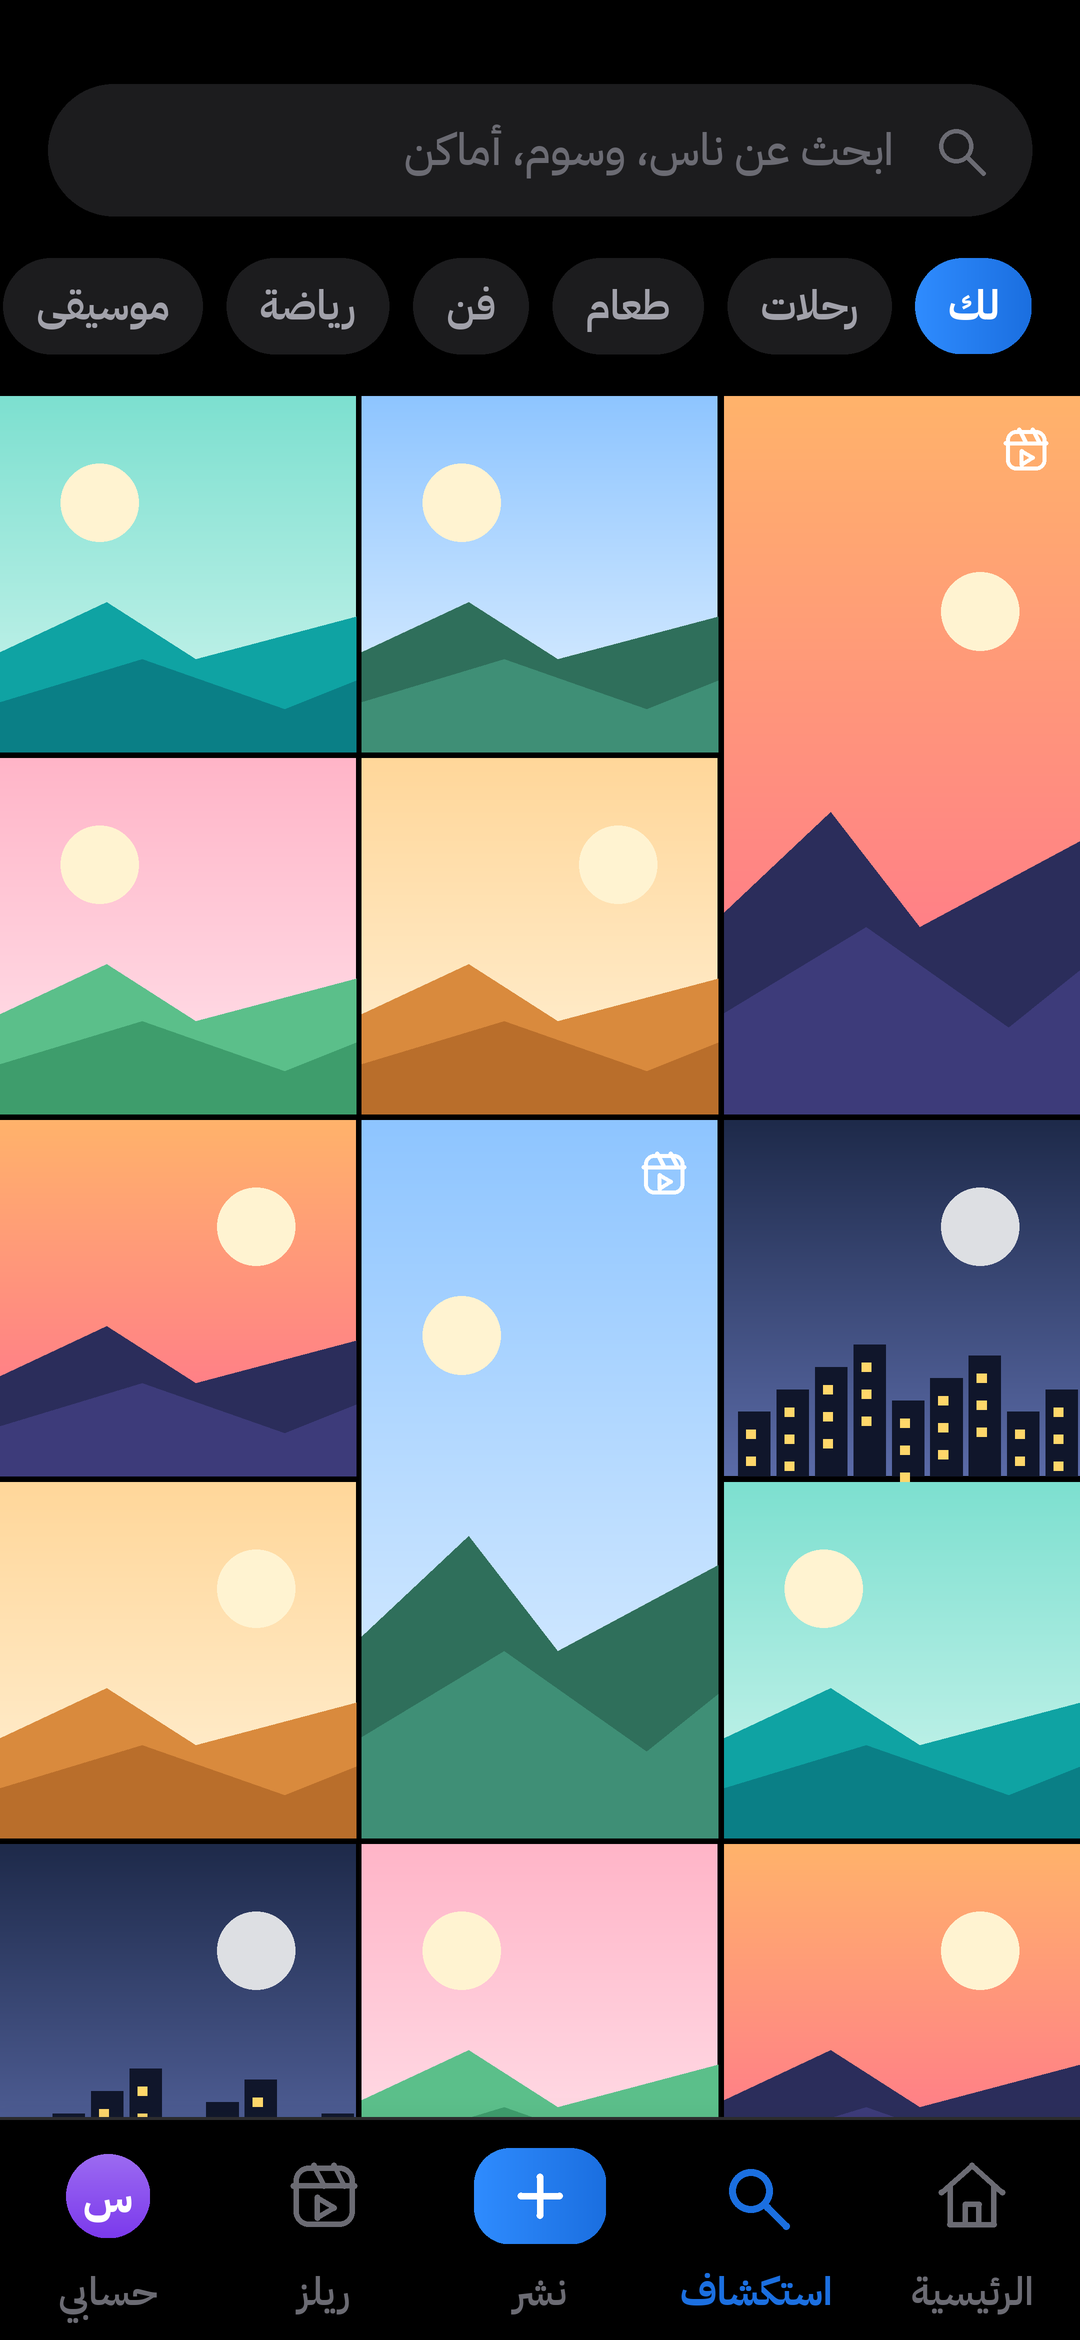
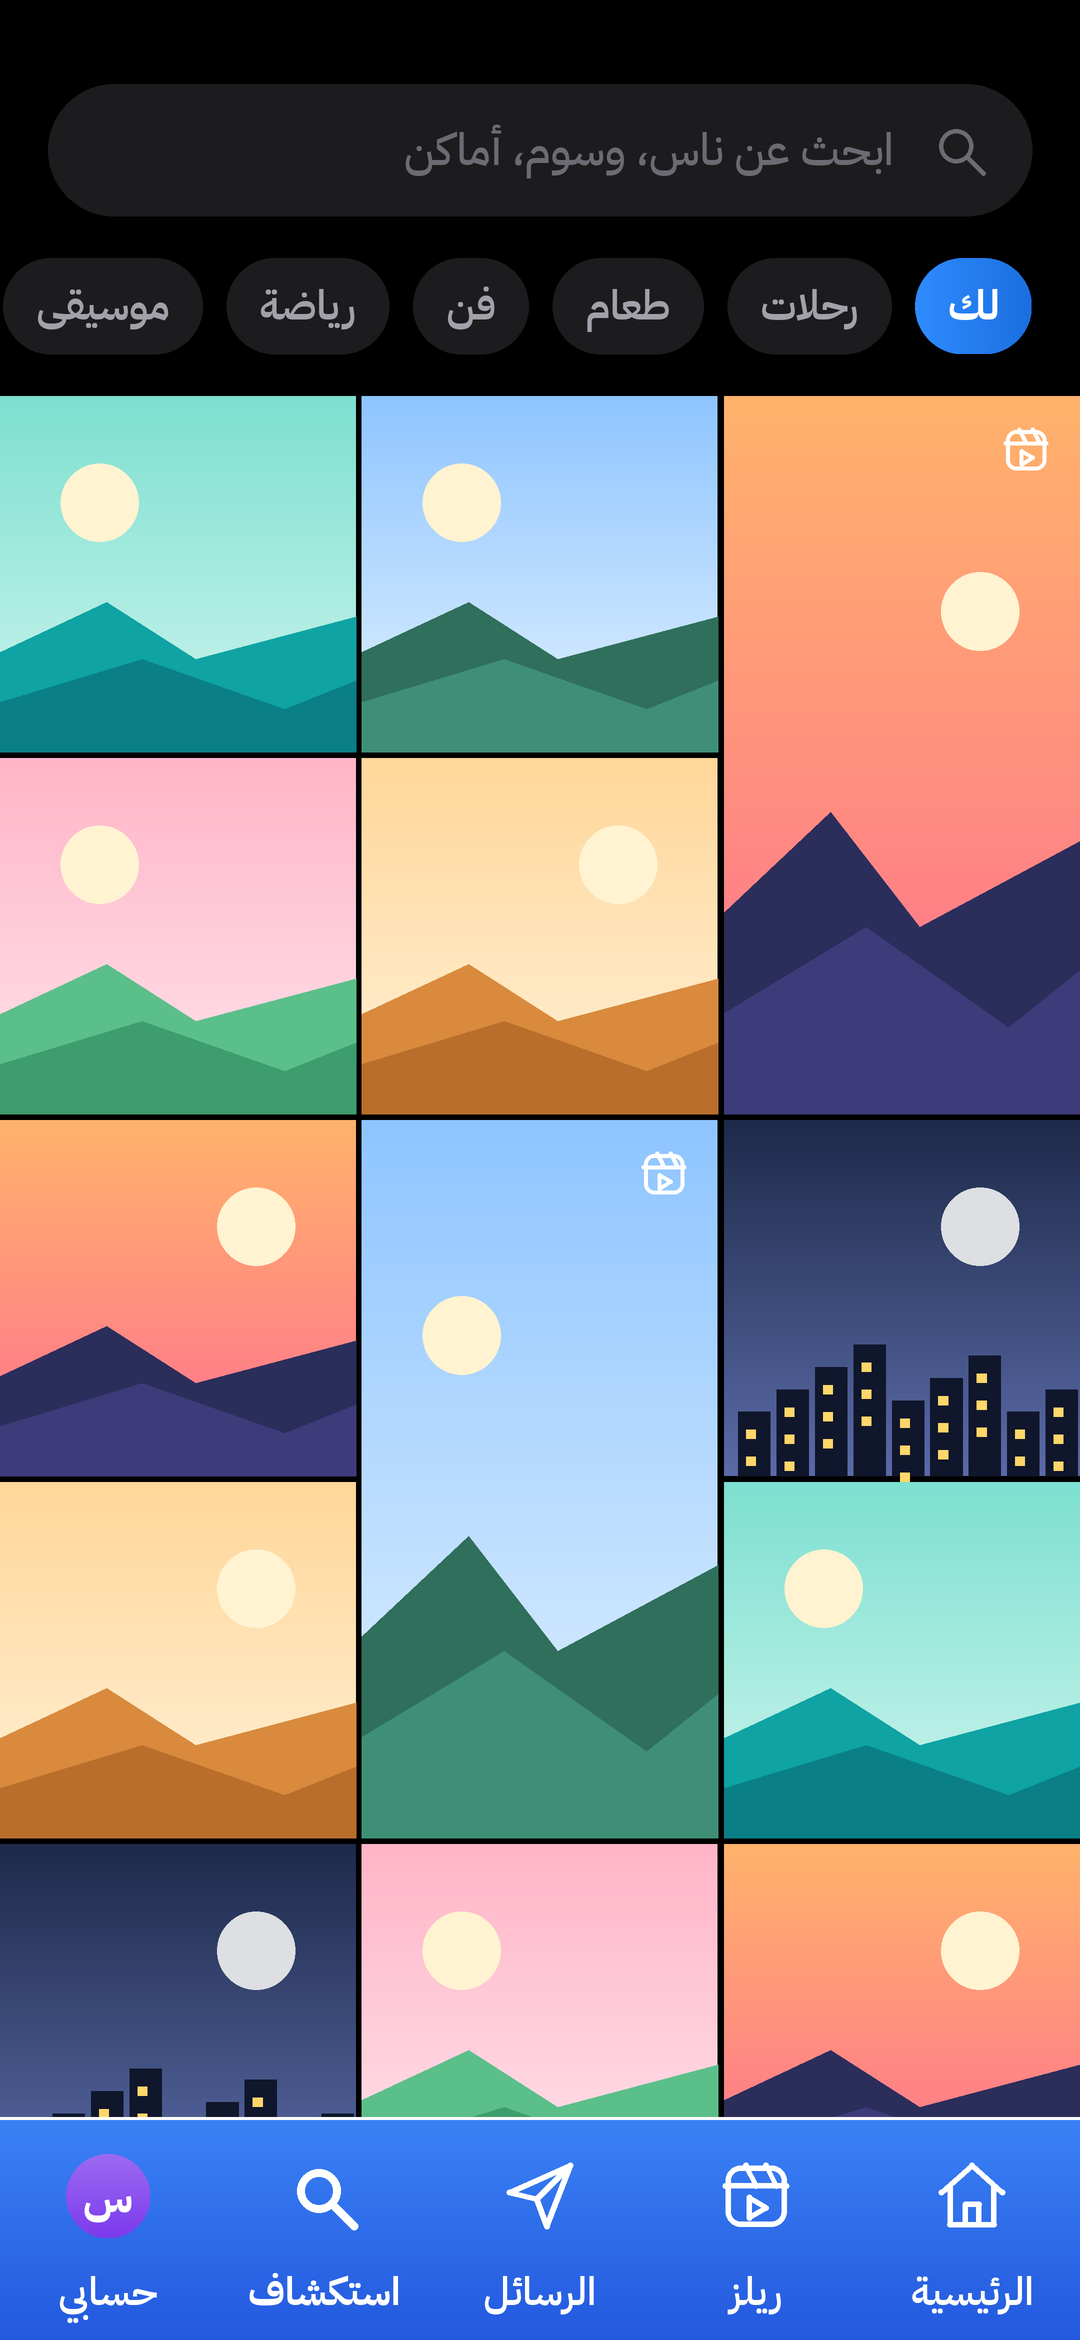
Quiz Tawasulkum design mockups: match real water login + blue-glass nav
Update the Python/PIL mockup pipeline (not just the standalone exploration
sheet) so the login and bottom-nav mockups use the exact colors and tab
order already implemented in Kotlin (AuthScreens.kt's WaterField/WaterButton,
FeedScreens.kt's blue-glass nav bar), instead of the older generic mockup
design. Also fixes several tabbar() highlight indices that were wrong after
removing the unused "create post" tab from the real nav.

Claude-Session: https://claude.ai/code/session_019uqjmh2zsJCzjD8BR3oFuT

Changed region(s): [[0.0, 0.9047, 1.0, 1.0]]

diff --git a/design/auth.py b/design/auth.py
@@ -76,22 +76,42 @@ def welcome(step):
     return c
 
 
+def water_field(c, y, placeholder, icon, value=None, trailing=None, x0=L, x1=None):
+    """حقل مائي شفاف 100% مطابق لـ WaterField بـ AuthScreens.kt: تدرج أبيض شفاف + حد فاتح."""
+    x1 = x1 or (W - L)
+    c.arr(x0, y, x1, y + FIELD_H, RADIUS_FIELD, "#FFFFFF", 0.20)
+    c.rr(x0, y, x1, y + FIELD_H, RADIUS_FIELD, line="#FFFFFF", lw=1.1)
+    c.icon(icon, x1 - 24, y + FIELD_H / 2, 20, "#FFFFFF", bg=WATER_DEEP)
+    c.text(x1 - 50, y + FIELD_H / 2, value or placeholder, 14, "r", "#FFFFFF" if value else "#C9F3F7", "r")
+    if trailing:
+        c.icon(trailing, x0 + 24, y + FIELD_H / 2, 20, "#FFFFFF", bg=WATER_DEEP)
+    return y + FIELD_H
+
+
+def water_button(c, y, label, x0=L, x1=None):
+    x1 = x1 or (W - L)
+    c.arr(x0, y, x1, y + BUTTON_H, RADIUS_BUTTON, "#FFFFFF", 0.28)
+    c.rr(x0, y, x1, y + BUTTON_H, RADIUS_BUTTON, line="#FFFFFF", lw=1.2)
+    c.text((x0 + x1) / 2, y + BUTTON_H / 2, label, 15, "b", "#FFFFFF", "c")
+
+
 def login():
-    c = K(BG)
-    c.text(180, 40, "العربية ▾".replace("▾", "").strip(), 13, "m", MUTED, "c")
-    c.logo(180, 124, 76)
-    c.text(180, 196, "هلا بيك مجدداً", 26, "x", INK, "c")
-    c.text(180, 226, "ادخل حتى تكمل دردشتك", 13.5, "r", MUTED, "c")
-    y = c.input(262, "رقم الهاتف أو البريد أو اسم المستخدم", "user", value="sara.ali", focus=True)
-    y = c.input(y + 12, "كلمة المرور", "lock", trailing="eye", value="••••••••")
-    c.text(L, y + 24, "نسيت كلمة المرور؟", 13, "b", PRIMARY_DARK, "l")
-    c.btn(y + 52, "دخول")
-    yy = y + 52 + BUTTON_H + 22
-    c.hline(L, 150, yy); c.hline(210, R, yy); c.text(180, yy, "أو", 12.5, "m", FAINT, "c")
-    c.btn(yy + 20, "المتابعة بحساب Google", kind="line", icon="google")
-    c.btn(yy + 20 + BUTTON_H + 10, "الدخول برقم الهاتف", kind="line", icon="phone")
-    c.hline(0, W, 696, LINE)
-    c.runs(R - 56, 734, [("ما عندك حساب؟ ", MUTED, "r"), ("سجّل الحين", PRIMARY_DARK, "b")], 14)
+    """مطابقة 100% لـ LoginScreen بـ AuthScreens.kt: مائي شفاف بالكامل، نفس القيم بالضبط."""
+    c = K(WATER_DEEP)
+    c.grad(0, 0, W, H, WATER_DEEP, WATER_BOTTOM)
+    c.acircle(30, 20, 210, WATER_MID, 0.5)
+    c.acircle(330, 650, 180, WATER_LIGHT, 0.35)
+    c.logo(180, 128, 72, white=True)
+    c.text(180, 200, "هلا بيك مجدداً", 26, "x", "#FFFFFF", "c")
+    c.text(180, 230, "ادخل حتى تكمل دردشتك", 13.5, "r", "#E6FBFA", "c")
+    cx0, cx1, cy0 = 20, W - 20, 272
+    c.arr(cx0, cy0, cx1, cy0 + 236, 28, "#FFFFFF", 0.14)
+    c.rr(cx0, cy0, cx1, cy0 + 236, 28, line="#FFFFFF", lw=1.0)
+    y = water_field(c, cy0 + 22, "رقم الهاتف أو البريد أو اسم المستخدم", "user", value="sara.ali", x0=cx0 + 22, x1=cx1 - 22)
+    y = water_field(c, y + 12, "كلمة المرور", "lock", trailing="eye", value="••••••••", x0=cx0 + 22, x1=cx1 - 22)
+    c.text(cx1 - 22, y + 20, "نسيت كلمة المرور؟", 12.5, "b", "#FFFFFF", "l")
+    water_button(c, y + 48, "دخول", x0=cx0 + 22, x1=cx1 - 22)
+    c.runs(R - 56, cy0 + 236 + 46, [("ما عندك حساب؟ ", "#E6FBFA", "r"), ("سجّل الحين", "#FFFFFF", "b")], 14)
     return c
 
 

diff --git a/design/kit.py b/design/kit.py
@@ -228,23 +228,20 @@ class K(_C):
         self.text(cx, cy - size * 0.3 + bw * 0.39, "؟", size * 0.34, "b", mark, "c")
 
     def tabbar(self, active=0):
+        # مطابق لـ FeedScreens.kt: شريط زجاجي أزرق متدرج (3B82F6 -> 1D4ED8) + خط علوي أبيض شفاف
         y0 = H - NAV_H
-        self.shadow(0, y0, W, H + 20, r=0, blur=6, dy=-1, alpha=18)
-        self.rr(0, y0, W, H + 20, 0, fill=SURFACE)
-        self.hline(0, W, y0, LINE)
-        items = [("home", "الرئيسية"), ("search", "استكشاف"), ("plus", "نشر"), ("reel", "ريلز"), ("user", "حسابي")]
+        self.grad(0, y0, W, H + 20, NAV_GLASS1, NAV_GLASS2, r=0)
+        self.hline(0, W, y0, "#FFFFFF")
+        items = [("home", "الرئيسية"), ("reel", "ريلز"), ("send", "الرسائل"), ("search", "استكشاف"), ("user", "حسابي")]
         slot = W / 5
         for i, (ic, lb) in enumerate(items):
             cx = W - slot * (i + 0.5)       # RTL: الأول من اليمين
             on = i == active
-            col = PRIMARY_DARK if on else FAINT
-            if ic == "plus":
-                self.grad(cx - 22, y0 + 10, cx + 22, y0 + 42, PRIMARY, PRIMARY_DARK, r=12, horizontal=True)
-                self.icon("plus", cx, y0 + 26, 22, "#FFFFFF", sw=2.4, bg=PRIMARY)
-            elif ic == "user":
-                self.avatar(cx, y0 + 26, 14, "س", 0, ring="new" if on else None)
+            col = "#FFFFFF"
+            if ic == "user":
+                self.avatar(cx, y0 + 26, 14, "س", 0, ring="new" if on else None, ring_w=2.0 if on else 1.3)
             else:
-                self.icon(ic, cx, y0 + 26, 27, col, sw=2.1 if on else 1.7)
+                self.icon(ic, cx, y0 + 26, 27, col, sw=2.3 if on else 1.7, bg=NAV_CUT)
             self.text(cx, y0 + 58, lb, 11, "b" if on else "m", col, "c")
 
     def back(self, title, right=None, left=None, size=17):

diff --git a/design/tokens.py b/design/tokens.py
@@ -13,6 +13,15 @@ LINE = "#2C2C2E"
 PRIMARY = "#2F8CFF"
 PRIMARY_DARK = "#1B6FE0"
 PRIMARY_SOFT = "#0F2A4A"
+# الشريط السفلي الزجاجي الأزرق (نفس قيم Kotlin بالضبط: FeedScreens.kt)
+NAV_GLASS1 = "#3B82F6"
+NAV_GLASS2 = "#1D4ED8"
+NAV_CUT = "#1D4ED8"
+# شاشة الدخول المائية (نفس قيم Kotlin بالضبط: AuthScreens.kt)
+WATER_DEEP = "#06424C"
+WATER_MID = "#0EA5B7"
+WATER_LIGHT = "#22D3EE"
+WATER_BOTTOM = "#031C21"
 BRAND1 = "#7C3AED"
 BRAND2 = "#EC4899"
 BRAND3 = "#F59E0B"

diff --git a/design/feed.py b/design/feed.py
@@ -196,7 +196,7 @@ def explore():
         c.photo(x0, y0, x1, y1, kind)
         if rh == 2:
             c.icon("reel", x1 - 18, y0 + 18, 18, "#FFFFFF", bg="#000000")
-    c.tabbar(1)
+    c.tabbar(3)
     return c
 
 
@@ -220,7 +220,7 @@ def search_results():
         else:
             c.grad(L, y + 14, L + 84, y + 44, PRIMARY, PRIMARY_DARK, r=15, horizontal=True); c.text(L + 42, y + 29, "متابعة", 12.5, "b", "#FFFFFF", "c")
         y += 66
-    c.tabbar(1)
+    c.tabbar(3)
     return c
 
 

diff --git a/design/chatscreens.py b/design/chatscreens.py
@@ -77,7 +77,7 @@ def inbox():
         if unread:
             c.circle(L + 10, y + 46, 10, fill=PRIMARY); c.text(L + 10, y + 46, str(unread), 11, "b", "#FFFFFF", "c", rtl=False)
         y += 70
-    c.tabbar(1)
+    c.tabbar(2)
     return c
 
 
